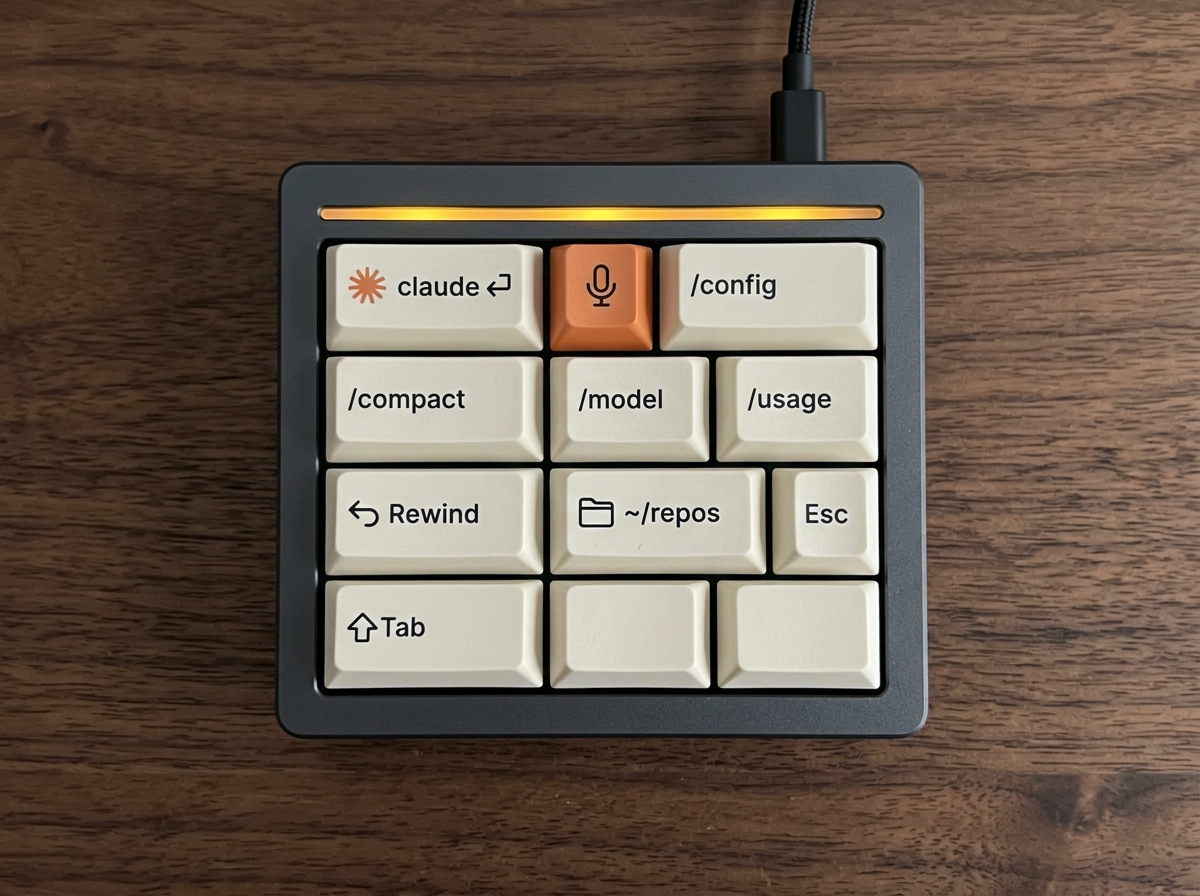
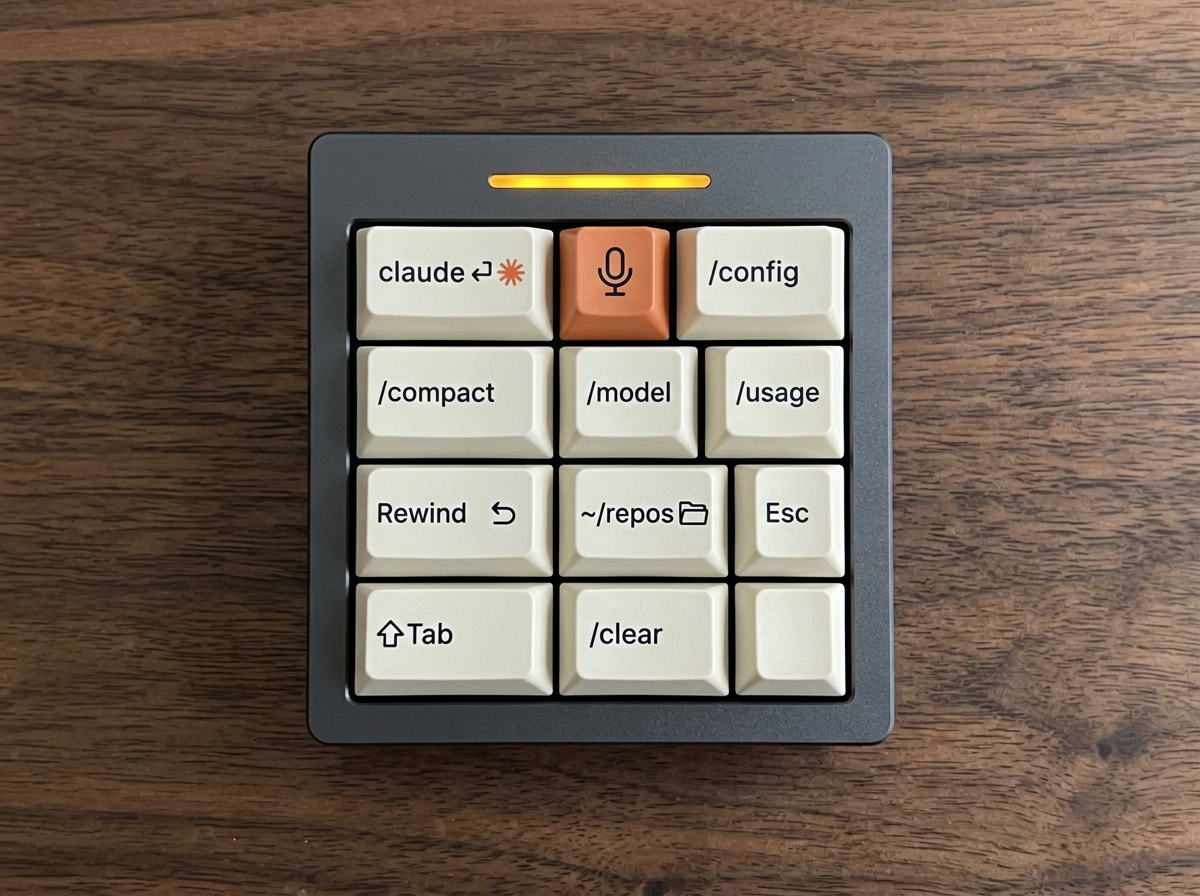
Add Linux macropad comparison, management-tool TODO, 11-key render
specs/linux-macropads.md: 12+ key pads with Linux programming routes and
approximate prices; recommends the Adafruit MacroPad RP2040. TODO.md: the
planned claude-macropad config and remapping tool.

diff --git a/specs/linux-macropads.md b/specs/linux-macropads.md
@@ -1,0 +1,46 @@
+# Off-the-Shelf Macropads for the 11-Key Draft (Linux)
+
+Pads that can carry the 11-key draft in [`../key-layout.md`](../key-layout.md)
+(so 12+ keys) and work on Linux. Researched 2026-10-24 from web search and
+project pages; nothing here was bought or tested.
+
+**Prices are approximate**: retailer listings of unknown date, in the currency
+found, converted roughly to USD. Re-check before buying, and add shipping and
+the 17% Israeli VAT above ~$75 (see `bom.md`).
+
+## Requirements that matter for this layout
+
+1. **12+ keys.** 11 committed plus 1 spare.
+2. **Programmable without Windows.** QMK/VIA (configured in the browser at
+   usevia.app, stored on the pad) is the gold standard: nothing runs on the host.
+3. **Real key hold for the push-to-talk key.** QMK/VIA pads send a plain held
+   `Space`, which is what Claude Code's hold mode needs. Stream Deck-style pads
+   generally send taps, so they need `/voice tap` or a rebound key (see
+   `key-layout.md`).
+4. **Text macros with Return** (`/compact` ⏎). VIA has a macro editor; QMK
+   does it in the keymap; Stream Deck software does it natively.
+
+## Candidates
+
+| Pad | Keys | Programming on Linux | Approx. price | Fit |
+|-----|------|----------------------|---------------|-----|
+| **Adafruit MacroPad RP2040** (starter kit) | 12 (3×4) + encoder + OLED | QMK (`keyboards/adafruit/macropad` exists upstream), CircuitPython, Arduino | ~$50 kit; bare board $34.95 ([Adafruit](https://adafruit.com/product/5100), [Pi Hut](https://thepihut.com/collections/adafruit-accessories/products/adafruit-macropad-rp2040-starter-kit-3x4-keys-encoder-oled-adabox019-essentials) £48) | **Best match.** Exactly 3×4, per-key RGB for the status idea, encoder push can take Rewind, OLED can show Claude state. Kit was out of stock at two retailers. Adafruit's page says QMK isn't supported, but the QMK repo has the board; CircuitPython is the safe path. |
+| **Work Louder Creator Micro** | 12 + 2 scroll wheels, 4 layers | VIA; vendor says it works on Linux ([Drop Q&A](https://drop.com/buy/work-louder-creator-micro/questions)) | Not found (Drop hides it); likely $150+ | Same maker as OpenAI's Codex Micro. Premium, low-profile switches. |
+| **DOIO KB16** | 16 + 3 knobs (some listings say 4) | QMK/VIA | ~$65–80 (¥10,000 in Japan; ~$79 listed) ([review](https://green-keys.info/en/doio-kb16-macro-pad-review%ef%bd%9cexplanation-of-effective-use/)) | 5 spare keys; knobs useful for scrolling. Wired only. Check the knob count on the listing. |
+| **Binepad BNK-16** | 16 | QMK/VIA | from ~$99 ([mechanicalkeyboards.com](https://mechanicalkeyboards.com/collections/QMK-VIA-Compatible-Keyboards?page=6)) | CNC aluminium, solid. Room to grow. |
+| **Keychron Q0 Max** | 21 (numpad layout) + knob | QMK/VIA, wireless | ~$110 ([Keychron](https://www.keychron.com/collections/bts-2026-max-k-qmk-series)) | Numpad legends and odd key sizes; fine with custom caps. Overkill for 11. |
+| **Generic AliExpress 12-key + 2–3 knob pad** (CH552/CH57x) | 12 + knobs | Not QMK. Open-source [`ch57x-keyboard-tool`](https://github.com/pferreir/ch57x-keyboard-tool) (Rust, `cargo install`) writes the keymap from a YAML config; may need sudo | ~$15–30 (typical listing, not verified) | **Cheapest.** Stores simple keys/combos; text macros are limited, so text keys would send `F13`–`F24` and let a host tool type the text. Check the USB ID against the tool's supported list before buying. |
+| **Elgato Stream Deck MK.2** | 15 LCD keys | [StreamController](https://github.com/StreamController/StreamController) (official Linux app, community) | ~$150 MSRP ([listing](https://global.channelonline.com/acme/ccs/Products/overview/M023478422)), €137 on deal | Per-key icons (Claude logo, mic) with no keycap printing. Tap-style keys, so push-to-talk needs tap mode. StreamController lists Original, Mini, XL, Plus, Neo and others; MK.2 assumed under "Original" (not confirmed). |
+| **Ajazz AKP153** (Stream Deck clone) | 15 LCD keys | Vendor lists Windows and Mac only; not on StreamController's list (which has Mirabox 293S and Ulanzi D200 as experimental) | ~$40–57 (Walmart) | Cheap, but **no confirmed Linux route.** Skip. |
+
+Too small for the draft: Stream Deck Mini (6), Neo (8), Binepad BNK9 (9).
+
+## Recommendation
+
+- **First pick: Adafruit MacroPad RP2040**, about $50. Exact fit, open
+  firmware, RGB and OLED for the status-LED idea, so it can later grow into the
+  Tier 2 build without changing pads.
+- **If you want labels without printing caps: Stream Deck MK.2** with
+  StreamController, accepting tap-mode push-to-talk.
+- **Cheapest test of the concept:** a generic 12-key AliExpress pad with
+  `ch57x-keyboard-tool`, paired with the host-side tool in [`../TODO.md`](../TODO.md).

diff --git a/TODO.md b/TODO.md
@@ -1,0 +1,33 @@
+# To Do
+
+## Later: configuration and management tool (`claude-macropad`)
+
+A host-side CLI that owns the pad's configuration, so changes do not mean
+re-flashing or hand-editing firmware keymaps. Added 2026-10-24.
+
+1. **Config parameters.** Read and edit `~/.config/claude-macropad/config.yaml`,
+   starting with `repos_dir` (key 8, "Go to repos", default `~/repos`).
+   - e.g. `claude-macropad set repos_dir ~/repos/github`, `claude-macropad get repos_dir`.
+2. **Remap shortcuts onto keys.** Treat the shortcuts in `key-layout.md` and
+   `ideated-shortcuts.md` as a library, and assign any library entry to any pad
+   key.
+   - e.g. `claude-macropad list` (library), `claude-macropad assign 12 resume`,
+     `claude-macropad show` (current layout).
+   - Needs the library moved into a machine-readable file (YAML/JSON: id,
+     label, icon, action type, text/keys, submit) that the docs are generated
+     from or link to.
+3. **Push the layout to the pad.** Depends on the pad chosen
+   (`specs/linux-macropads.md`):
+   - QMK/VIA pads: pad keys send `F13`–`F24`; the tool registers host
+     shortcuts that perform the mapped action (so remapping never touches
+     firmware).
+   - Generic CH57x pads: generate a `ch57x-keyboard-tool` YAML and upload it.
+   - Stream Deck: write a StreamController page.
+   - Virtual Macropad: write `~/.config/virtual-macropad/config.yaml`.
+4. **Injection.** Reuse the backend logic from
+   `linux-desktop/Virtual-Macropad` (`virtual_macropad/inject.py`: wtype /
+   ydotool / xdotool, plus `layout_pin` for the Hebrew-layout problem) rather
+   than rewriting it.
+
+Open: whether this lives in this repo or in Virtual-Macropad, which already has
+a config file, injection backends and a macro format.

diff --git a/key-layout.md b/key-layout.md
@@ -6,7 +6,7 @@ brainstorm; this file is the shortlist. Last updated 2026-10-24.
 
 ![3x4 concept render](assets/prototypes/layout-3x4-render.png)
 
-*Concept render (Gemini / Nano Banana 2, 2026-10-24) of the 10-key draft on a 3×4 pad. Key positions in the image are approximate; the table below is authoritative.*
+*Concept render (Gemini / Nano Banana 2, 2026-10-24) of the 11-key draft on a 3×4 pad (one blank spare). Key positions in the image are approximate; the table below is authoritative.*
 
 ## Submit-style injectors
 
@@ -60,7 +60,7 @@ config file name and the `F14` routing are proposals, not built yet.
 
 - Fits a **3×4 (12 keys)** with 1 spare, which matches the original specs
   (`specs/esp32-standard.md`, `specs/bom.md`: 10–12 keys).
-- Adafruit MacroPad RP2040 (3×4 + encoder) fits with no layers; the encoder push
+- Adafruit MacroPad RP2040 (3×4 + encoder) fits with no layers (pad options and prices: [`specs/linux-macropads.md`](specs/linux-macropads.md)); the encoder push
   could take Rewind and free a second slot.
 - For comparison, OpenAI's Codex Micro (see [`prior-art.md`](prior-art.md)) is
   13 keys plus an encoder.

diff --git a/README.md b/README.md
@@ -7,8 +7,9 @@ A dedicated macropad for driving Claude Code — approve, stop, new session, nav
 ## Contents
 
 - [`hardware-directions.md`](hardware-directions.md) — off-the-shelf vs. custom-build paths, and how to wire the status LED to Claude Code hooks.
-- [`key-layout.md`](key-layout.md) — the current 10-key draft, including the push-to-talk key.
+- [`key-layout.md`](key-layout.md) — the current 11-key draft, including the push-to-talk key.
 - [`ideated-shortcuts.md`](ideated-shortcuts.md) — candidate key assignments.
+- [`TODO.md`](TODO.md) — planned configuration and management tool.
 - [`prior-art.md`](prior-art.md) — existing agent macropads (Codex Micro, Stream Deck plugins).
-- [`specs/`](specs/) — ESP32 / RP2040 build specs, ideas log, [keycap printing](specs/keycap-printing.md), and the [BOM](specs/bom.md).
+- [`specs/`](specs/) — ESP32 / RP2040 build specs, ideas log, [keycap printing](specs/keycap-printing.md), [Linux-compatible pads](specs/linux-macropads.md), and the [BOM](specs/bom.md).
 - [`assets/prototypes/`](assets/prototypes/) — visual prototypes.

diff --git a/specs/README.md b/specs/README.md
@@ -7,6 +7,7 @@ Ideation specs for the Claude Macropad. Each doc is a candidate build, not a com
 | [`esp32-standard.md`](./esp32-standard.md) | DIY ESP32-S3 build, keys + RGB + status LED | Hobbyist, Friday-afternoon build |
 | [`esp32-ott.md`](./esp32-ott.md) | OTT tier 1 — haptics, buzzer, strobe, gooseneck mic + PTT, Claude figurine, three TTS voice personalities | Deliberately ridiculous companion device |
 | [`esp32-ott-advanced.md`](./esp32-ott-advanced.md) | OTT tier 2 — onboard Whisper/KWS, wake word, servo-animated figurine, OLED status face, rotary, touch strip, foot pedal | Genuinely ambitious; "Pi-OTT" variant noted for full dictation |
+| [`linux-macropads.md`](./linux-macropads.md) | Off-the-shelf 12+ key pads that work on Linux, with prices | Research |
 | [`keycap-printing.md`](./keycap-printing.md) | Keycap legend options on ABS (UV, laser, relegendable, 3D printed) | Research |
 | [`ideas-log.md`](./ideas-log.md) | Full brainstorm catalogue with author attribution | Reference / parking lot |
 
